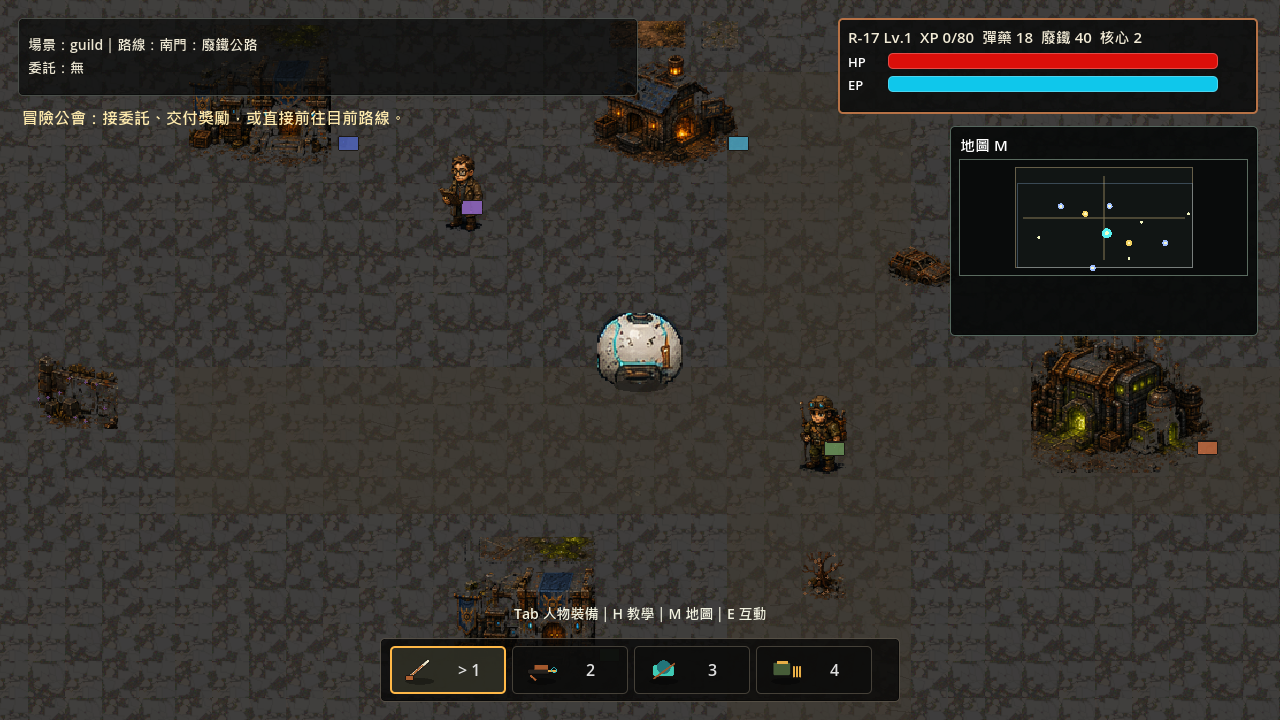
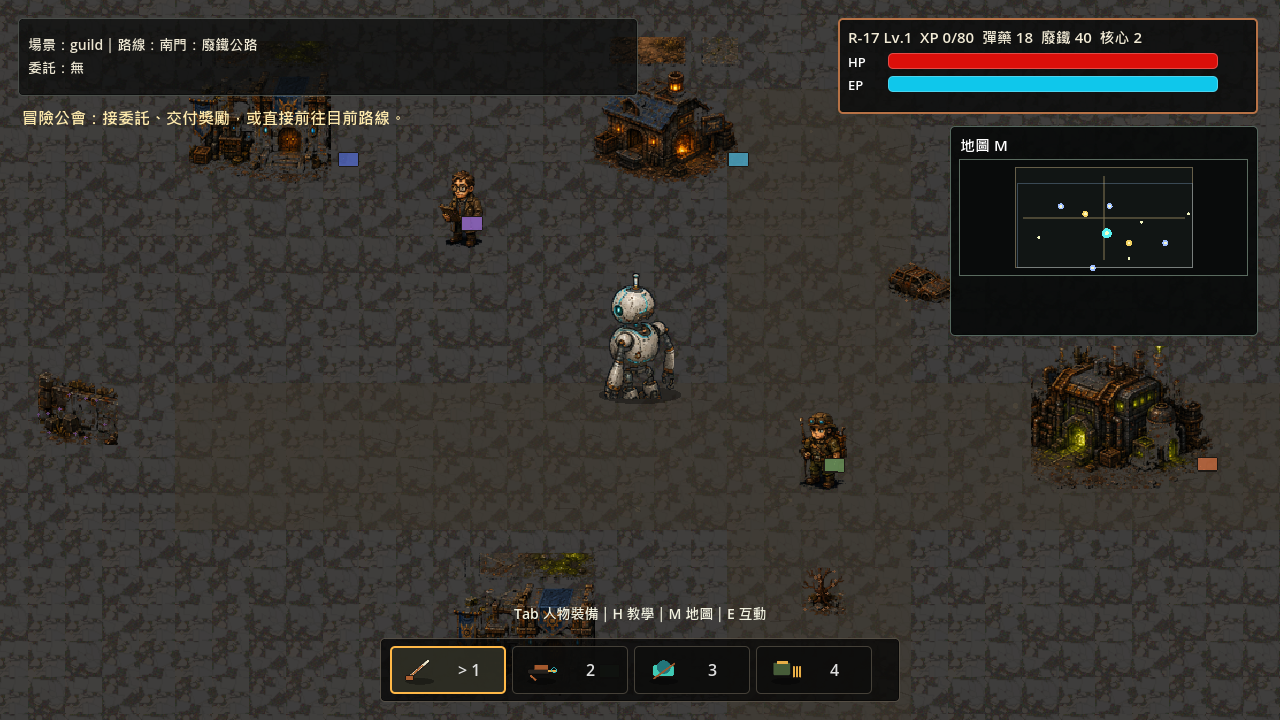
Use full-body R17 protagonist and document project state

diff --git a/scripts/tools/build_release_candidate_assets.py b/scripts/tools/build_release_candidate_assets.py
@@ -13,12 +13,17 @@ ROOT = Path(__file__).resolve().parents[2]
 SPRITES = ROOT / "assets" / "sprites"
 DOCS = ROOT / "docs"
 REFERENCE_SOURCE = Path(
-    r"C:\Users\wuwu6\.codex\generated_images\019e9e33-9677-73b2-8b87-c6acad59966e\ig_0754933d1d3f43ca016a2c1881a16881919ef893001a05800f.png"
+    r"C:\Users\wuwu6\AppData\Local\Temp\codex-clipboard-23e1c8dd-9b16-4a6a-a8a0-fe0a591e045d.png"
 )
-REFERENCE_COPY = DOCS / "art_direction_reference_r17_v4.png"
+REFERENCE_FALLBACKS = [
+    Path(r"C:\Users\wuwu6\.codex\generated_images\019e9e33-9677-73b2-8b87-c6acad59966e\ig_0754933d1d3f43ca016a2c1881a16881919ef893001a05800f.png"),
+    DOCS / "art_direction_reference_r17_full_body.png",
+    DOCS / "art_direction_reference_r17_v4.png",
+]
+REFERENCE_COPY = DOCS / "art_direction_reference_r17_full_body.png"
 
-FRAME_W = 80
-FRAME_H = 96
+FRAME_W = 112
+FRAME_H = 128
 FRAMES_PER_ACTION = 4
 DIRECTIONS = 8
 ACTIONS = [
@@ -35,14 +40,14 @@ ACTIONS = [
 
 
 BASE_BOXES = {
-    0: (800, 50, 873, 111),   # right
-    1: (585, 50, 661, 114),   # down-right
-    2: (111, 34, 185, 114),   # down/front
-    3: (423, 50, 498, 120),   # down-left
-    4: (274, 26, 350, 120),   # left
-    5: (422, 122, 507, 190),  # up-left
-    6: (267, 119, 350, 196),  # up/back
-    7: (582, 120, 663, 193),  # up-right
+    0: (940, 18, 1072, 250),   # right
+    1: (764, 18, 914, 250),    # down-right
+    2: (38, 18, 198, 250),     # down/front
+    3: (366, 18, 520, 250),    # down-left
+    4: (210, 18, 364, 250),    # left
+    5: (186, 286, 318, 484),   # up-left
+    6: (515, 18, 706, 250),    # up/back
+    7: (880, 286, 1000, 484),  # up-right
 }
 
 
@@ -51,9 +56,11 @@ def ensure(path: Path) -> None:
 
 
 def load_reference() -> Image.Image:
-    source = REFERENCE_SOURCE if REFERENCE_SOURCE.exists() else REFERENCE_COPY
-    if not source.exists():
-        raise FileNotFoundError(f"Missing R-17 reference image: {source}")
+    source = REFERENCE_SOURCE if REFERENCE_SOURCE.exists() else None
+    if source is None:
+        source = next((candidate for candidate in REFERENCE_FALLBACKS if candidate.exists()), None)
+    if source is None or not source.exists():
+        raise FileNotFoundError("Missing full-body R-17 reference image")
     ensure(REFERENCE_COPY)
     if source.resolve() != REFERENCE_COPY.resolve():
         shutil.copyfile(source, REFERENCE_COPY)
@@ -96,10 +103,10 @@ def direction_vector(direction: int) -> tuple[float, float]:
 def fit_to_frame(sprite: Image.Image, action: str, direction: int, frame: int) -> Image.Image:
     canvas = Image.new("RGBA", (FRAME_W, FRAME_H), (0, 0, 0, 0))
     draw = ImageDraw.Draw(canvas, "RGBA")
-    draw.ellipse((17, 82, 63, 93), fill=(0, 0, 0, 92))
+    draw.ellipse((FRAME_W * 0.18, FRAME_H - 19, FRAME_W * 0.82, FRAME_H - 5), fill=(0, 0, 0, 92))
 
     body = sprite.copy()
-    target_h = 72 if action not in {"dead", "slash"} else 68
+    target_h = 110 if action not in {"dead", "slash"} else 104
     scale = min(1.0, target_h / max(1, body.height))
     body = body.resize((max(1, int(body.width * scale)), max(1, int(body.height * scale))), Image.Resampling.LANCZOS)
     bob = 0
@@ -109,11 +116,11 @@ def fit_to_frame(sprite: Image.Image, action: str, direction: int, frame: int) -
         body = ImageEnhance.Color(body).enhance(0.45)
         body = ImageEnhance.Brightness(body).enhance(1.22)
     x = (FRAME_W - body.width) // 2
-    y = FRAME_H - body.height - 9 + bob
+    y = FRAME_H - body.height - 8 + bob
     if action == "dead":
         body = body.rotate(-72 if direction in [0, 1, 7] else 72, expand=True, resample=Image.Resampling.BICUBIC)
         x = (FRAME_W - body.width) // 2
-        y = FRAME_H - body.height - 12
+        y = FRAME_H - body.height - 10
     canvas.alpha_composite(body, (x, y))
     _draw_action_overlay(canvas, action, direction, frame)
     return canvas
@@ -122,7 +129,7 @@ def fit_to_frame(sprite: Image.Image, action: str, direction: int, frame: int) -
 def _draw_action_overlay(canvas: Image.Image, action: str, direction: int, frame: int) -> None:
     draw = ImageDraw.Draw(canvas, "RGBA")
     dx, dy = direction_vector(direction)
-    cx, cy = 40, 54
+    cx, cy = FRAME_W * 0.5, FRAME_H * 0.58
     if action == "shoot":
         recoil = [0, -4, -2, 1][frame]
         start = (cx + dx * 10 + recoil * dx, cy + dy * 6 + recoil * dy)
@@ -313,7 +320,7 @@ def write_manifest() -> None:
         "directions": DIRECTIONS,
         "frames_per_action": FRAMES_PER_ACTION,
         "atlas_path": "res://assets/sprites/player/recycler_player_multiaction_8dir.png",
-        "reference_path": "res://docs/art_direction_reference_r17_v4.png",
+        "reference_path": "res://docs/art_direction_reference_r17_full_body.png",
         "actions": [
             {"id": action, "frames": FRAMES_PER_ACTION, "loop": action in {"idle", "walk"}, "fps": 8 if action in {"idle", "walk"} else 14}
             for action in ACTIONS

diff --git a/scripts/tools/verify_visual_assets.py b/scripts/tools/verify_visual_assets.py
@@ -133,16 +133,25 @@ def verify_player_manifest(failures: list[str]) -> None:
     directions = int(manifest.get("directions", 0))
     frames = int(manifest.get("frames_per_action", 0))
     actions = manifest.get("actions", [])
-    if frame_size != [80, 96]:
-        fail("R-17 player manifest frame_size must be [80, 96]", failures)
+    if frame_size != [112, 128]:
+        fail("R-17 player manifest frame_size must be [112, 128]", failures)
     if directions != 8 or frames != 4 or len(actions) != 9:
         fail("R-17 player manifest must define 9 actions, 8 directions, 4 frames", failures)
 
     atlas_path = resolve(str(manifest.get("atlas_path", "")))
     if atlas_path.exists():
         image = Image.open(atlas_path).convert("RGBA")
-        if image.size != (2880, 768):
-            fail(f"R-17 atlas size must be 2880x768, got {image.size}", failures)
+        expected_size = (112 * 4 * 9, 128 * 8)
+        if image.size != expected_size:
+            fail(f"R-17 atlas size must be {expected_size[0]}x{expected_size[1]}, got {image.size}", failures)
+        for direction in range(8):
+            frame = image.crop((0, direction * 128, 112, (direction + 1) * 128))
+            bbox = frame.getbbox()
+            if bbox is None:
+                fail(f"R-17 idle frame for direction {direction} is blank", failures)
+                continue
+            if bbox[3] - bbox[1] < 104:
+                fail(f"R-17 idle frame for direction {direction} is not full-body enough: bbox={bbox}", failures)
 
 
 def verify_no_mojibake(failures: list[str]) -> None:

diff --git a/scripts/tools/extract_reference_sheet_assets.py b/scripts/tools/extract_reference_sheet_assets.py
@@ -292,7 +292,7 @@ def make_preview(images: Iterable[tuple[str, Image.Image]]) -> None:
 
 def validate_outputs() -> None:
     expected = {
-        SPRITES / "player" / "recycler_player_multiaction_8dir.png": (1008, 448),
+        SPRITES / "player" / "recycler_player_multiaction_8dir.png": (4032, 1024),
         SPRITES / "enemies" / "polluted_enemy_six_types.png": (672, 72),
         SPRITES / "items" / "recycler_item_icons.png": (320, 64),
         SPRITES / "tiles" / "village_ground_2p5d.png": (32, 32),

diff --git a/scripts/tools/build_robot_player_atlas.py b/scripts/tools/build_robot_player_atlas.py
@@ -1,11 +1,11 @@
 from __future__ import annotations
 
-from generate_formal_visual_assets import build_player_atlas
+from build_release_candidate_assets import build_player_atlas
 
 
 def main() -> None:
-    build_player_atlas()
-    print("Generated original R-17 robot player atlas")
+	build_player_atlas()
+	print("Generated full-body release-candidate R-17 player atlas")
 
 
 if __name__ == "__main__":

diff --git a/README.md b/README.md
@@ -1,0 +1,122 @@
+# 廢土回收商
+
+Godot 4.6.3 製作的 PC 優先像素風偽 3D vertical slice。遊戲目標是讓玩家操作 R-17 回收機器人，在村莊整備、接取委託、前往四個廢土區探索戰鬥、撿取資源、切換裝備、升級維修並存讀檔。
+
+目前狀態是可驗證的 release-candidate 試玩切片，不是完整商店版所有內容。後續協作者要以「保留可玩流程、逐步提高美術與音效精度」為準，不要重建專案或改 Godot 版本。
+
+## 目前完成內容
+
+- 主角改為全身 R-17 回收機器人，正式來源為 `docs/art_direction_reference_r17_full_body.png`。
+- 玩家 atlas：`assets/sprites/player/recycler_player_multiaction_8dir.png`，尺寸 `4032x1024`，單格 `112x128`，9 動作、8 方向、每動作 4 幀。
+- 玩家動作包含待機、走路、射擊、拔刀、揮砍、切換工具、互動、受擊與死亡。
+- 左鍵會依目前裝備決定近戰或射擊，並搭配武器 overlay、揮砍弧光、槍口火光與音效。
+- 村莊、公會與四方向廢土路線可切換；廢土路線包含不同地形、地標、敵人、Boss、掉落與回村出口。
+- NPC 有靠近提示、對話框、頭像、一次性互動與離開範圍自動關閉。
+- UI 包含 HUD、快捷列、人物裝備面板、教學、暫停選單、小地圖與全屏地圖。
+- 戰鬥包含敵人血條、傷害數字、受擊震動、污染液 / 火花效果、死亡淡出與掉落物提示。
+- 存檔使用 `user://save_game.json`，含 Base64 payload 與 checksum。
+- 自動驗證入口包含 JSON 驗證、素材驗證、Godot headless、PixelAssetBaker、ValidationRunner、AutomatedPlaytestRunner 與 VisualReviewRunner。
+
+## 如何遊玩
+
+使用 Godot console 啟動：
+
+```powershell
+& 'C:\Godot_v4.6.3-stable_win64.exe\Godot_v4.6.3-stable_win64_console.exe' --path 'C:\Code\Game\first-game'
+```
+
+建議用 Godot 編輯器開啟 `C:\Code\Game\first-game`，主場景已由 `project.godot` 指定。
+
+## 操作
+
+- `WASD`：移動。
+- 滑鼠：瞄準。
+- 滑鼠左鍵：依目前左手裝備執行近戰或射擊。
+- `E`：互動 / 推進對話。
+- `Tab` 或 `I`：人物裝備面板。
+- `M`：小地圖 / 全屏地圖。
+- `H`：教學。
+- `1-4`：快捷裝備。
+- `Esc`：暫停選單、關閉面板或退出對話。
+
+## 主要資料夾
+
+- `scenes/main`：主入口與流程。
+- `scenes/player`：玩家場景。
+- `scenes/levels/village`：村莊樞紐。
+- `scenes/levels/guild`：冒險公會。
+- `scenes/levels/wasteland`：四方向廢土路線。
+- `scenes/tests`：Godot 驗證場景。
+- `scripts/autoload`：GameState、SaveManager、SceneRouter、AudioManager。
+- `scripts/components`：NPC、敵人、掉落物、世界物件、特效。
+- `scripts/tools`：素材生成與驗證工具。
+- `scripts/ui`：地圖 UI。
+- `data/art`：正式素材 manifest 與玩家動畫 manifest。
+- `data/maps`：NPC、任務、事件、廢土路線資料。
+- `data/items`：裝備與合成資料。
+- `data/enemies`：敵人資料。
+- `assets/sprites`：正式遊戲 sprite。
+- `assets/audio`：音效。
+- `docs`：設計、驗證截圖、SRS 對照與交接文件。
+
+## 正式美術管線
+
+正式主角來源：
+
+- `docs/art_direction_reference_r17_full_body.png`
+
+正式 atlas：
+
+- `assets/sprites/player/recycler_player_multiaction_8dir.png`
+
+快速檢查圖：
+
+- `docs/player_full_body_idle_preview.png`
+- `docs/player_full_body_first_frame_x4.png`
+
+產生與驗證：
+
+```powershell
+python scripts\tools\build_release_candidate_assets.py
+python scripts\tools\verify_visual_assets.py
+```
+
+舊的 `generate_formal_visual_assets.py` 是早期 48x56 占位生成法，不應作為正式輸出。`build_robot_player_atlas.py` 已改成相容入口，會呼叫新的 release-candidate R-17 atlas 管線。
+
+## 驗證
+
+建議提交前至少跑：
+
+```powershell
+node -e "for (const f of ['data/maps/npcs.json','data/maps/events.json','data/maps/quests.json','data/maps/wasteland_routes.json','data/items/equipment.json','data/items/recipes.json','data/enemies/enemies.json','data/maps/wasteland_params.json','data/art/visual_assets.json','data/art/player_animation_manifest.json']) { JSON.parse(require('fs').readFileSync(f,'utf8')); } console.log('JSON OK')"
+python scripts\tools\build_release_candidate_assets.py
+python scripts\tools\verify_visual_assets.py
+& 'C:\Godot_v4.6.3-stable_win64.exe\Godot_v4.6.3-stable_win64_console.exe' --headless --path 'C:\Code\Game\first-game' --quit
+& 'C:\Godot_v4.6.3-stable_win64.exe\Godot_v4.6.3-stable_win64_console.exe' --headless --path 'C:\Code\Game\first-game' --scene 'res://scenes/tests/PixelAssetBaker.tscn'
+& 'C:\Godot_v4.6.3-stable_win64.exe\Godot_v4.6.3-stable_win64_console.exe' --headless --path 'C:\Code\Game\first-game' --scene 'res://scenes/tests/ValidationRunner.tscn'
+& 'C:\Godot_v4.6.3-stable_win64.exe\Godot_v4.6.3-stable_win64_console.exe' --headless --path 'C:\Code\Game\first-game' --scene 'res://scenes/tests/AutomatedPlaytestRunner.tscn'
+```
+
+視覺變更後再跑：
+
+```powershell
+& 'C:\Godot_v4.6.3-stable_win64.exe\Godot_v4.6.3-stable_win64_console.exe' --path 'C:\Code\Game\first-game' --scene 'res://scenes/tests/VisualReviewRunner.tscn'
+```
+
+輸出截圖會放在 `docs/visual_review_*.png`。
+
+## 協作注意事項
+
+- 玩家可見文字、NPC 對話、任務、測試清單與交付文件使用繁體中文。
+- 技術規劃、commit message 與內部實作註記可使用英文。
+- 不要批量刪除檔案或資料夾。若需清理素材，只能一次刪除一個明確檔案路徑。
+- 不要改 Godot 執行檔路徑、Godot 版本、autoload 結構或三個驗證 runner 的用途。
+- 不要把舊版簡化幾何素材重新烘回正式圖。
+- 新增正式美術時要同步更新 `data/art/visual_assets.json`。
+- 新增裝備時要同步更新 `data/items/equipment.json` 與對應 icon / world drop / sfx 欄位。
+
+## 已知風險
+
+- 目前是可驗證試玩切片，不是完整商業 3A 成品。
+- 部分角色、敵人與 NPC 動態仍靠 atlas、Tween、shader 或 overlay 補強，之後可再由人工逐格動畫精修。
+- Godot 結束時曾出現 ObjectDB leaked warning，目前未阻塞 playable flow，但後續正式版應繼續追蹤。

diff --git a/docs/PLAYTEST_CHECKLIST.md b/docs/PLAYTEST_CHECKLIST.md
@@ -4,9 +4,8 @@
 
 ```powershell
 node -e "for (const f of ['data/maps/npcs.json','data/maps/events.json','data/maps/quests.json','data/maps/wasteland_routes.json','data/items/equipment.json','data/items/recipes.json','data/enemies/enemies.json','data/art/visual_assets.json']) { JSON.parse(require('fs').readFileSync(f,'utf8')); console.log('JSON OK', f); }"
-python scripts\tools\generate_formal_visual_assets.py
+python scripts\tools\build_release_candidate_assets.py
 python scripts\tools\verify_visual_assets.py
-python scripts\tools\generate_ground_tiles.py
 & 'C:\Godot_v4.6.3-stable_win64.exe\Godot_v4.6.3-stable_win64_console.exe' --headless --path 'C:\Code\Game\first-game' --quit
 & 'C:\Godot_v4.6.3-stable_win64.exe\Godot_v4.6.3-stable_win64_console.exe' --headless --path 'C:\Code\Game\first-game' --scene 'res://scenes/tests/PixelAssetBaker.tscn'
 & 'C:\Godot_v4.6.3-stable_win64.exe\Godot_v4.6.3-stable_win64_console.exe' --headless --path 'C:\Code\Game\first-game' --scene 'res://scenes/tests/ValidationRunner.tscn'
@@ -25,7 +24,8 @@ python scripts\tools\generate_ground_tiles.py
 
 - `A` 往左、`D` 往右，左右視角不能反。
 - `W` 往上、`S` 往下，八方向動畫能依移動方向切換。
-- 主角應為原創 R-17 回收機器人，不可出現人類頭髮、背包角色或人類與機器人重疊。
+- 主角應使用 `docs/art_direction_reference_r17_full_body.png` 來源建立的全身 R-17 回收機器人，不可出現人類頭髮、背包角色、半身裁切或人類與機器人重疊。
+- `assets/sprites/player/recycler_player_multiaction_8dir.png` 應為 `4032x1024`，單格 `112x128`，每個待機方向都要看得到頭、身體、手臂與腿部。
 - 受擊與死亡會有可見閃光、震動或回村維修提示。
 
 ## 戰鬥與裝備

diff --git a/docs/SRS_TRACEABILITY.md b/docs/SRS_TRACEABILITY.md
@@ -4,9 +4,9 @@
 | --- | --- |
 | Godot 4.x 2D Roguelike vertical slice | `project.godot` 使用 Godot 4.6.3，流程包含標題、村莊、公會、四方向廢土、戰鬥、掉落、任務、裝備、地圖與存檔。 |
 | 像素風偽 3D / 2.5D | `WorldBackdrop.gd`、Y-sort、建築 / props PNG、底部碰撞與道路地形色彩提供偽 3D 層次。 |
-| 主角為回收機器人 | `recycler_player_multiaction_8dir.png` 由正式生成管線建立原創 R-17，不再使用人類角色疊機器人外殼。 |
+| 主角為回收機器人 | `recycler_player_multiaction_8dir.png` 由 `docs/art_direction_reference_r17_full_body.png` 建立全身原創 R-17，不再使用人類角色疊機器人外殼。 |
 | 主角 8 方向 | `Player.gd` 與 player atlas 使用 8 方向 row：下、右下、右、右上、上、左上、左、左下。 |
-| 主角多動作 | Atlas 支援 `idle`、`walk`、`shoot`、`draw_sword`、`slash`、`swap_tool`、`interact`、`hit`、`dead`，總尺寸 `1296x448`。 |
+| 主角多動作 | Atlas 支援 `idle`、`walk`、`shoot`、`draw_sword`、`slash`、`swap_tool`、`interact`、`hit`、`dead`，單格 `112x128`、每動作 4 幀、總尺寸 `4032x1024`。 |
 | PC 操作 | `GameState._ensure_input_actions()` 設定 WASD、滑鼠左鍵、右鍵、空白鍵、Tab/I、H、M、F5/F9、1-4、Q。 |
 | 左鍵依裝備決定動作 | `GameState.active_attack_mode()` 與 `Player._primary_attack_pressed()` 依目前快捷裝備切換近戰或射擊。 |
 | 滑鼠瞄準射擊 | `Player._aim_direction()` 讀取滑鼠方向，遠程武器播放射擊動畫並建立 projectile。 |

diff --git a/AI_HANDOFF.md b/AI_HANDOFF.md
@@ -8,7 +8,7 @@
 
 Latest Codex work upgrades the project to Vertical Slice v2:
 
-- Player is now R-17 recycler robot.
+- Player is now the full-body R-17 recycler robot built from `docs/art_direction_reference_r17_full_body.png`.
 - NPCs animate through procedural idle/talk motion and close dialogue when the player leaves.
 - Enemies show movement animation, damage numbers, health bars, hit effects, and death fade.
 - Village is a crossroad hub with four wasteland route exits.
@@ -62,7 +62,8 @@ Prefer small, testable Godot changes. Do not rebuild the project or replace the 
 
 ```powershell
 node -e "for (const f of ['data/maps/npcs.json','data/maps/events.json','data/maps/quests.json','data/maps/wasteland_routes.json','data/items/equipment.json','data/items/recipes.json','data/enemies/enemies.json','data/maps/wasteland_params.json']) { JSON.parse(require('fs').readFileSync(f,'utf8')); } console.log('JSON OK')"
-python scripts\tools\build_robot_player_atlas.py
+python scripts\tools\build_release_candidate_assets.py
+python scripts\tools\verify_visual_assets.py
 & 'C:\Godot_v4.6.3-stable_win64.exe\Godot_v4.6.3-stable_win64_console.exe' --headless --path 'C:\Code\Game\first-game' --quit
 & 'C:\Godot_v4.6.3-stable_win64.exe\Godot_v4.6.3-stable_win64_console.exe' --headless --path 'C:\Code\Game\first-game' --scene 'res://scenes/tests/PixelAssetBaker.tscn'
 & 'C:\Godot_v4.6.3-stable_win64.exe\Godot_v4.6.3-stable_win64_console.exe' --headless --path 'C:\Code\Game\first-game' --scene 'res://scenes/tests/ValidationRunner.tscn'

diff --git a/docs/ASSET_CLEANUP_REPORT.md b/docs/ASSET_CLEANUP_REPORT.md
@@ -2,10 +2,11 @@
 
 ## 本輪正式來源
 
-- `docs/art_direction_reference_r17_v4.png`：R-17 高細節回收機器人正式參考來源。
+- `docs/art_direction_reference_r17_full_body.png`：R-17 高細節完整身體回收機器人正式參考來源。
 - `data/art/player_animation_manifest.json`：玩家 atlas 的格尺寸、動作、方向與幀數契約。
 - `data/art/visual_assets.json`：正式場景、NPC、敵人、Boss、道具、掉落物、UI 圖示與地圖標記來源。
-- `assets/sprites/player/recycler_player_multiaction_8dir.png`：Godot 目前實際讀取的 R-17 多動作八方向 atlas。
+- `assets/sprites/player/recycler_player_multiaction_8dir.png`：Godot 目前實際讀取的 R-17 完整身體多動作八方向 atlas。
+- `docs/player_full_body_idle_preview.png`、`docs/player_full_body_first_frame_x4.png`：本輪保留的主角全身檢查圖，用於確認不是半身裁切或人類疊圖。
 - `assets/sprites/items/recycler_item_icons.png` 與 `assets/sprites/items/*.png`：裝備列、背包、掉落物使用的正式圖示。
 - `assets/audio/*.wav`：目前 HUD、攻擊、受傷、轉場、升級與選單使用的音效。
 

diff --git a/WORKFLOW.md b/WORKFLOW.md
@@ -42,6 +42,13 @@ node -e "for (const f of ['data/maps/npcs.json','data/maps/events.json','data/ma
 & 'C:\Godot_v4.6.3-stable_win64.exe\Godot_v4.6.3-stable_win64_console.exe' --headless --path 'C:\Code\Game\first-game' --scene 'res://scenes/tests/AutomatedPlaytestRunner.tscn'
 ```
 
+After player art, equipment icon, NPC, prop, or map art changes:
+
+```powershell
+python scripts\tools\build_release_candidate_assets.py
+python scripts\tools\verify_visual_assets.py
+```
+
 Run visual review after visual/UI changes:
 
 ```powershell
